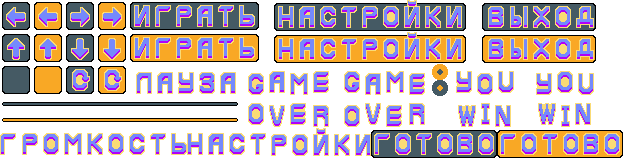
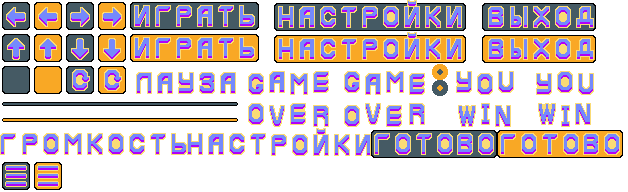
add to menu button and fix size

diff --git a/game/core/src/com/arkadgame/game/MainGameScreen.java b/game/core/src/com/arkadgame/game/MainGameScreen.java
@@ -89,6 +89,7 @@ public class MainGameScreen extends BaseScreen {
     private boolean agrMusic = false;
     private boolean BeautifulCamera = false;
     private boolean showWin = false;
+    private String currButton = "None";
 
 
     public void createBeautifulCamera() {
@@ -357,7 +358,7 @@ public class MainGameScreen extends BaseScreen {
         this.height = height;
         this.offset = height * 0.03f;
         batch.getProjectionMatrix().setToOrtho2D(0, 0, this.width, this.height);
-        zoom = height / 125f;
+        zoom = height / 150f;
         createButtons();
         createUI();
     }
@@ -462,6 +463,10 @@ public class MainGameScreen extends BaseScreen {
         button.setType("DownButton");
         button.setPosition(width - offset - button.getWidth(), offset);
         buttons.add(button);
+        button = new Button(buttonTexture, 32, 32, 0, 160, zoom, false);
+        button.setType("MenuButton");
+        button.setPosition(width - offset - button.getWidth(), height - offset - button.getHeight());
+        buttons.add(button);
         showResetButtonBool = true;
         button = new Button(buttonTexture, 32, 32, 64, 64, zoom, false);
         button.setType("ResetButton");
@@ -470,6 +475,7 @@ public class MainGameScreen extends BaseScreen {
     }
 
     private void checkButtons(float time) {
+        currButton = "None";
         float x = Gdx.input.getX(), x2 = Gdx.input.getX(1);
         float y = height - Gdx.input.getY(), y2 = height - Gdx.input.getY(1);
         boolean press = Gdx.input.isButtonPressed(0), press2 = Gdx.input.isTouched(1);
@@ -507,6 +513,11 @@ public class MainGameScreen extends BaseScreen {
                     this.recreate();
                 }
             }
+            if (butt.getType().equalsIgnoreCase("MenuButton")) {
+                if (butt.checkCollision(x, y)&&press) {
+                    this.currButton = butt.getType();
+                }
+            }
         }
     }
 
@@ -527,4 +538,7 @@ public class MainGameScreen extends BaseScreen {
         stage.dispose();
         clear = true;
     }
+
+    public String getCurrButton() { return currButton; }
+    public void clearCurrButton() { currButton = "None"; }
 }

diff --git a/game/core/src/com/arkadgame/game/ArkadGame.java b/game/core/src/com/arkadgame/game/ArkadGame.java
@@ -126,6 +126,12 @@ public class ArkadGame extends Game {
 			currentScene = "MainMenu";
 			setScreen(mainMenu);
 		}
+		if (mainGameScreen.getCurrButton().equalsIgnoreCase("MenuButton")) {
+			mainGameScreen.clearCurrButton();
+			mainMenu.clearAction();
+			currentScene = "MainMenu";
+			setScreen(mainMenu);
+		}
 		if (mainMenu.getCurrButton().equalsIgnoreCase("settingsButton")) {
 			mainMenu.clearAction();
 			setScreen(settingsScreen);
@@ -141,6 +147,7 @@ public class ArkadGame extends Game {
 			setMusic(1);
 			currentScene = "Level1";
 			mainMenu.clearAction();
+			mainGameScreen.clearCurrButton();
 			setScreen(mainGameScreen);
 		}
 		super.render();
